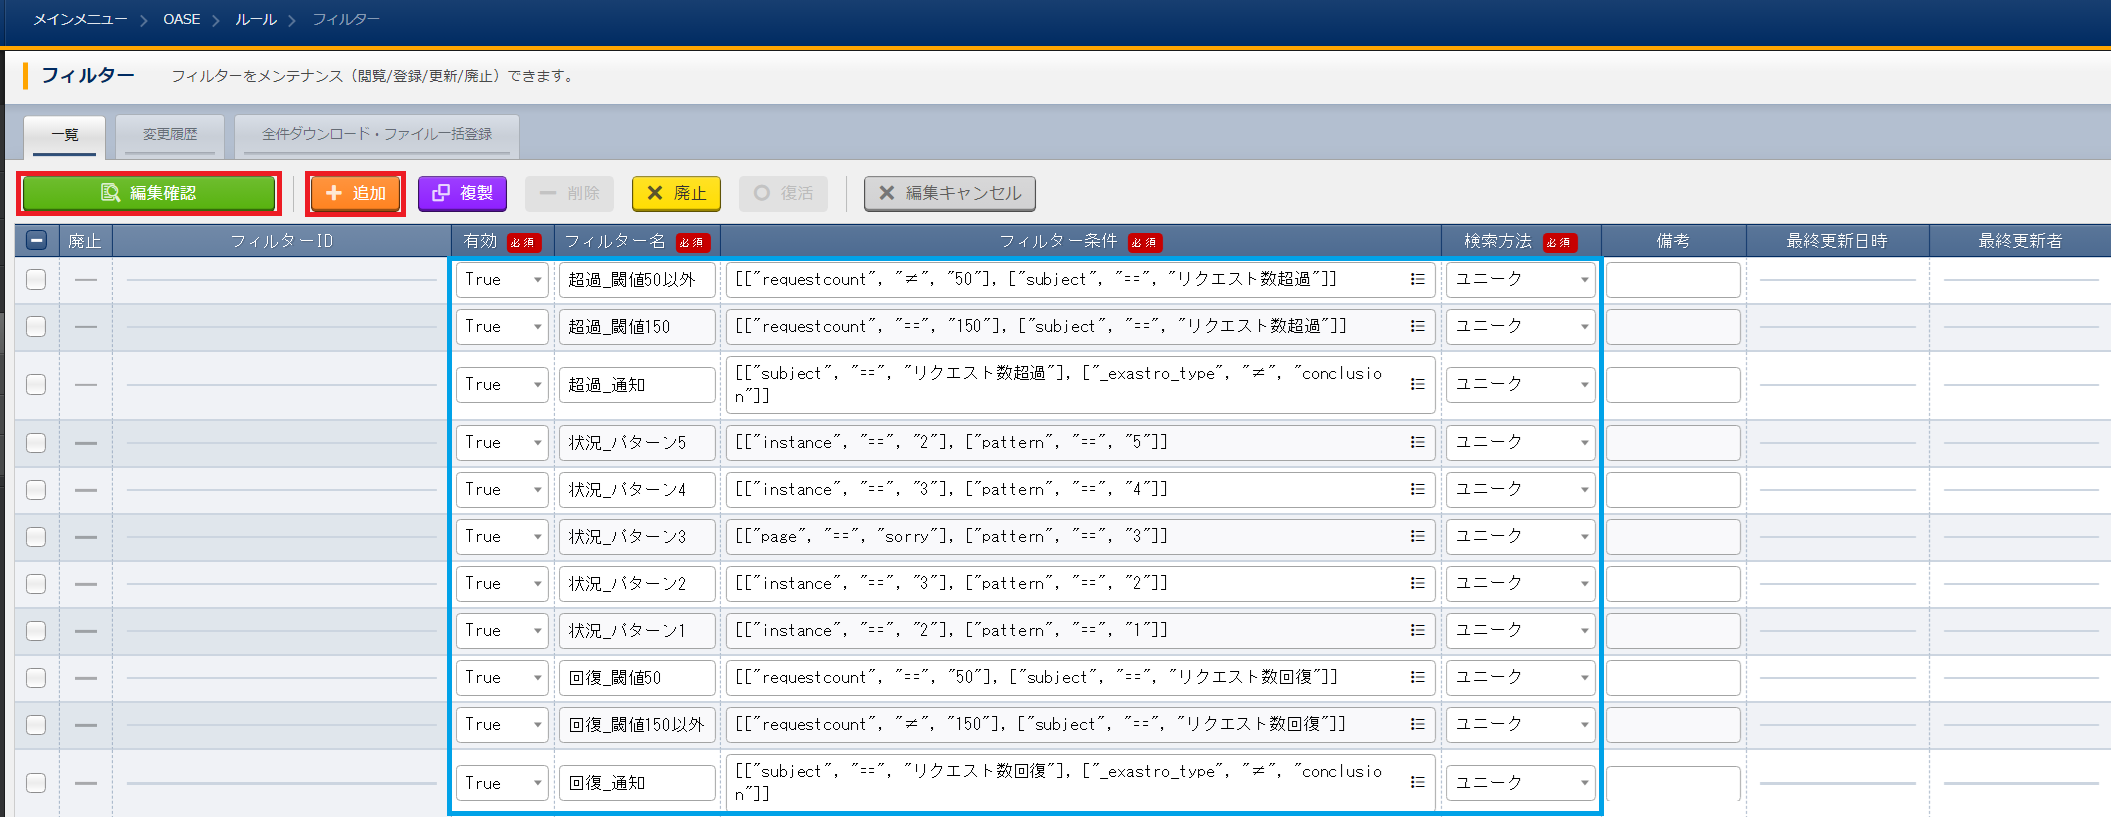
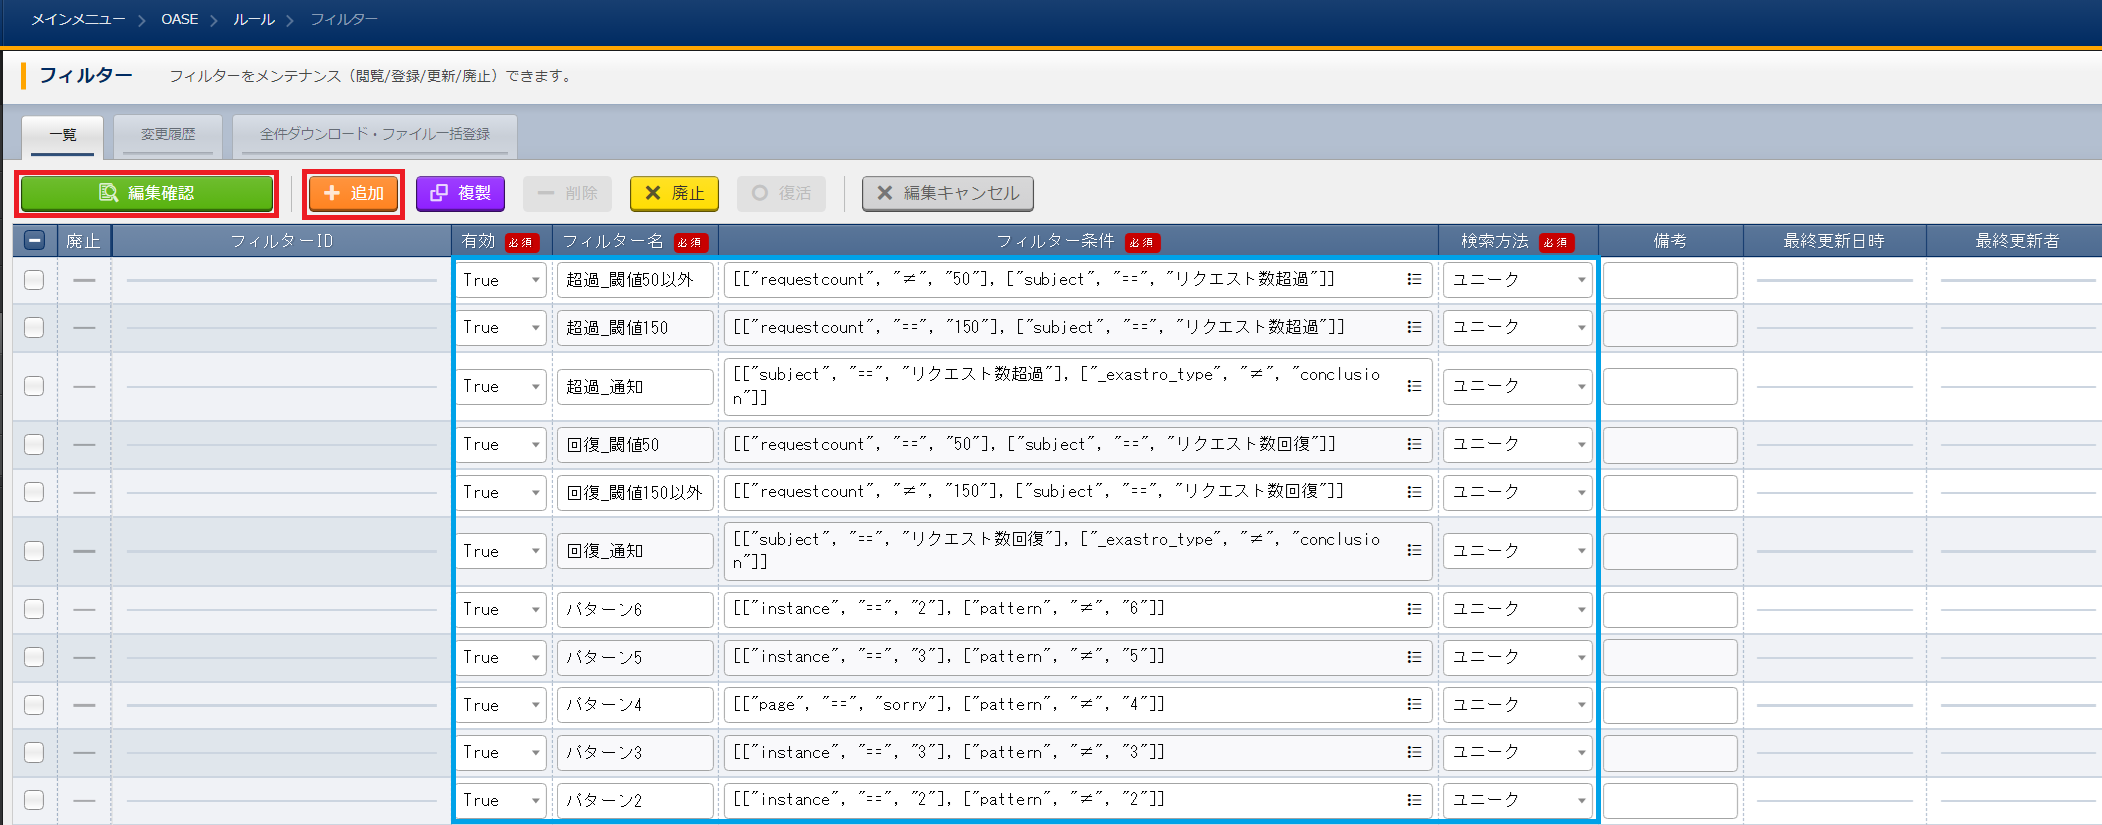
設定見直しとそれに伴う文言修正

Changed region(s): [[0.0, 0.0, 1.0, 1.0], [0.0928, 0.0612, 0.2783, 0.1224]]

diff --git a/src/ja/2.4/learn/oase/OASE_master_design.rst b/src/ja/2.4/learn/oase/OASE_master_design.rst
@@ -131,11 +131,52 @@ OASEを設定する際の事前設計について
 
 | そうなると、 :doc:`OASE_advanced_sorry-switch-back` で確認した仕様があるので、どちらのルールが適用されるのか、関連するイベントのTTLが経過するまで判断を待つことになってしまいます。
 
+| 次の工程でフィルタリングされるため、結論イベントのTTLを長めに設定する必要があります。
+
+| その長めに設定した結論イベントのTTLが過ぎるまで待ってアクションが実行される形になってしまいます。
+
 | 今回は、各ルールの条件が成立した時点でルールが適用され、アクションが実行される必要がありますので、条件となるフィルターがほかのルールと被らないように設定する必要があります。
 
-| ひとつ前の結論イベントから状況をフィルタリングする形になるので、ひとつ前の結論イベントがどのパターンから成立したものかを示すラベルを付与し、
-| それをフィルタリングするフィルターを設定することで対応しましょう。
-| それにより、各パターンの条件は各パターン特有のものとなり、その条件が成立し次第、アクションが実行されることになります。
+| 結論イベントにそれぞれのパターンを示すラベルを付与するようにし、インスタンス数の台数を示すラベルと自らのパターン以外のものをフィルタリングするようにすることで、
+| 各パターンの条件は各パターン特有のものとなり、その条件が成立し次第、アクションが実行されることになります。
+
+| ただ「元イベントのラベル継承」の設定を行うと、
+
+- パターン3 インスタンス3台のとき、リクエスト数超過通知:150
+
+| このパターンでは、スケールアウトやスケールインといったアクションのように、アクションのあとの稼働台数が変わるわけではありません。
+
+| その結果、結論イベントに付与されるラベルは元イベントに付与されていた、
+
+ | 稼働しているインスタンス数が3台であることを示すラベル
+ | リクエスト数超過通知:150という通知内容を示すラベル
+
+| と、新たに追加される
+
+ | 「Sorry画面への切り替え」を示すラベル
+ | 「パターン3」の結論イベントであることを示すラベル
+
+| となります。
+
+| このままだと、
+
+- パターン4 インスタンス3台のとき、リクエスト数回復通知:50/100/150
+- パターン5 インスタンス3台のとき、リクエスト数回復通知:50/100
+
+| の条件である、
+
+- パターン4 インスタンス数:3台 パターン4以外
+- パターン5 インスタンス数:3台 パターン5以外
+
+| の両方が成立してしまうことになります。
+
+| パターン3のあとに回復通知が来た場合は、パターン4のルールが実行され、Sorry画面からの切り戻しが行われる必要があります。
+
+| そのため、パターン5の条件と被らないようにパターン4の条件を以下のように設定しましょう。
+
+- パターン4 Sorry画面が切り替わっているとき、リクエスト数回復通知:50/100/150
+
+| またパターン3のあとにパターン5の条件が成立しないように、パターン3のルールでは「元イベントのラベル継承」の設定を「false」にしましょう。
 
 「通知内容に関するフィルタリング方法」の注意点
 -------------------------------------------------
@@ -155,7 +196,7 @@ OASEを設定する際の事前設計について
 
 | このパターンでは、スケールアウトやスケールインといったアクションのように、アクションのあとの稼働台数が変わるわけではありません。
 
-| そのため、インスタンス数を示すラベルでフィルタリングする場合、その値は更新されず、新しい状況を示す「Sorry画面への切り替え」という結論ラベルが追加される設定になります。
+| そのため、パターンを示すラベルが付与されていないと、
   
 | その結果、結論イベントに付与されるラベルは、元イベントに付与されていた、
 
@@ -172,7 +213,7 @@ OASEを設定する際の事前設計について
 
 | という意図しないループが無限に発生してしまいます。
 
-| 今回はインスタンス数を示すラベルではなく、パターンを示すラベルでフィルタリングするためループは発生しませんが、上記のような可能性があることを念頭に設定を考えていただければと思います。
+| 今回はインスタンス数を示すラベルだけでなく、パターンを示すラベルも合わせてフィルタリングするためループは発生しませんが、上記のような可能性があることを念頭に設定を考えていただければと思います。
 
 
 まとめ

diff --git a/src/ja/2.4/learn/oase/OASE_master_setting.rst b/src/ja/2.4/learn/oase/OASE_master_setting.rst
@@ -292,24 +292,24 @@ OASEエージェントの設定
      - フィルター条件
      - 検索方法
    * - :kbd:`True`
-     - :kbd:`状況_パターン1`
-     - :kbd:`[["instance", "==", "2"], ["pattern", "==", "1"]]`
+     - :kbd:`パターン2`
+     - :kbd:`[["instance", "==", "2"], ["pattern", "≠", "2"]]`
      - :kbd:`ユニーク`
    * - :kbd:`True`
-     - :kbd:`状況_パターン2`
-     - :kbd:`[["instance", "==", "3"], ["pattern", "==", "2"]]`
+     - :kbd:`パターン3`
+     - :kbd:`[["instance", "==", "3"], ["pattern", "≠", "3"]]`
      - :kbd:`ユニーク`
    * - :kbd:`True`
-     - :kbd:`状況_パターン3`
-     - :kbd:`[["page", "==", "sorry"], ["pattern", "==", "3"]]`
+     - :kbd:`パターン4`
+     - :kbd:`[["page", "==", "sorry"], ["pattern", "≠", "4"]]`
      - :kbd:`ユニーク`
    * - :kbd:`True`
-     - :kbd:`状況_パターン4`
-     - :kbd:`[["instance", "==", "3"], ["pattern", "==", "4"]]`
+     - :kbd:`パターン5`
+     - :kbd:`[["instance", "==", "3"], ["pattern", "≠", "5"]]`
      - :kbd:`ユニーク`
    * - :kbd:`True`
-     - :kbd:`状況_パターン5`
-     - :kbd:`[["instance", "==", "2"], ["pattern", "==", "5"]]`
+     - :kbd:`パターン6`
+     - :kbd:`[["instance", "==", "2"], ["pattern", "≠", "6"]]`
      - :kbd:`ユニーク`
    * - :kbd:`True`
      - :kbd:`超過_通知`
@@ -345,7 +345,7 @@ OASEエージェントの設定
  | 任意で設定可能です。わかりやすいものを設定しましょう。
 
 それぞれのフィルターの性格について
- | 「状況_パターン＊」は、それぞれ、状況把握のためのフィルターになります。
+ | 「パターン＊」は、それぞれ、パターンごとの状況把握のためのフィルターになります。
  | それ以外のものは、通知内容を確認するものになります。
 
 「超過_通知」「回復_通知」について
@@ -509,7 +509,7 @@ OASEエージェントの設定
      - :kbd:`1`
      - :kbd:`超過_閾値50以外`
      - :kbd:`A and B`
-     - :kbd:`状況_パターン1`
+     - :kbd:`パターン2`
      - :kbd:`scale-out`
      - :kbd:`True`
      - :kbd:`True`
@@ -521,10 +521,10 @@ OASEエージェントの設定
      - :kbd:`1`
      - :kbd:`超過_閾値150`
      - :kbd:`A and B`
-     - :kbd:`状況_パターン2`
+     - :kbd:`パターン3`
      - :kbd:`sorry_switch`
      - :kbd:`True`
-     - :kbd:`True`
+     - :kbd:`false`
      - :kbd:`[["page", "sorry"], ["pattern", "3"]]`
      - :kbd:`3600`
    * - :kbd:`True`
@@ -533,11 +533,11 @@ OASEエージェントの設定
      - :kbd:`1`
      - :kbd:`回復_通知`
      - :kbd:`A and B`
-     - :kbd:`状況_パターン3`
+     - :kbd:`パターン4`
      - :kbd:`sorry_switch-back`
      - :kbd:`True`
      - :kbd:`True`
-     - :kbd:`[["page", "normal"], ["pattern", "4"]]`
+     - :kbd:`[["page", "normal"], ["pattern", "4"], ["instance", "3"]]`
      - :kbd:`3600`
    * - :kbd:`True`
      - :kbd:`パターン5`
@@ -545,7 +545,7 @@ OASEエージェントの設定
      - :kbd:`1`
      - :kbd:`回復_閾値150以外`
      - :kbd:`A and B`
-     - :kbd:`状況_パターン4`
+     - :kbd:`パターン5`
      - :kbd:`scale-in`
      - :kbd:`True`
      - :kbd:`True`
@@ -557,7 +557,7 @@ OASEエージェントの設定
      - :kbd:`1`
      - :kbd:`回復_閾値50`
      - :kbd:`A and B`
-     - :kbd:`状況_パターン5`
+     - :kbd:`パターン6`
      - :kbd:`scale-in`
      - :kbd:`True`
      - :kbd:`True`
@@ -612,6 +612,10 @@ TTLについて
 
 | :menuselection:`OASE --> イベント --> イベントフロー` の画面に、時系列にイベントが発生しているのが確認できます。
 | 複数のアクションが連続して発生している様子を確認してみましょう。
+
+.. figure:: /images/learn/quickstart/oase/OASE_master_setting/OASE_master_setting_結果確認.gif
+   :width: 1200px
+   :alt: イベントフロー_結論イベント
 
 
 
